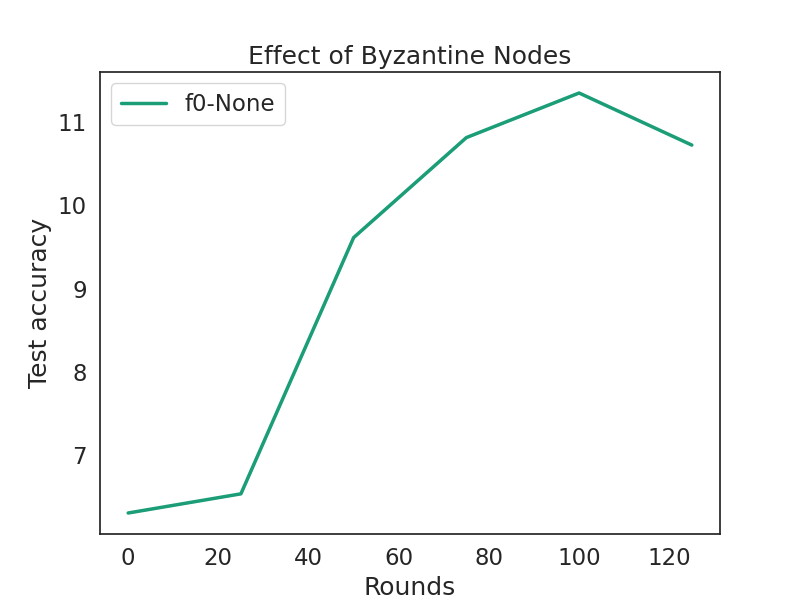
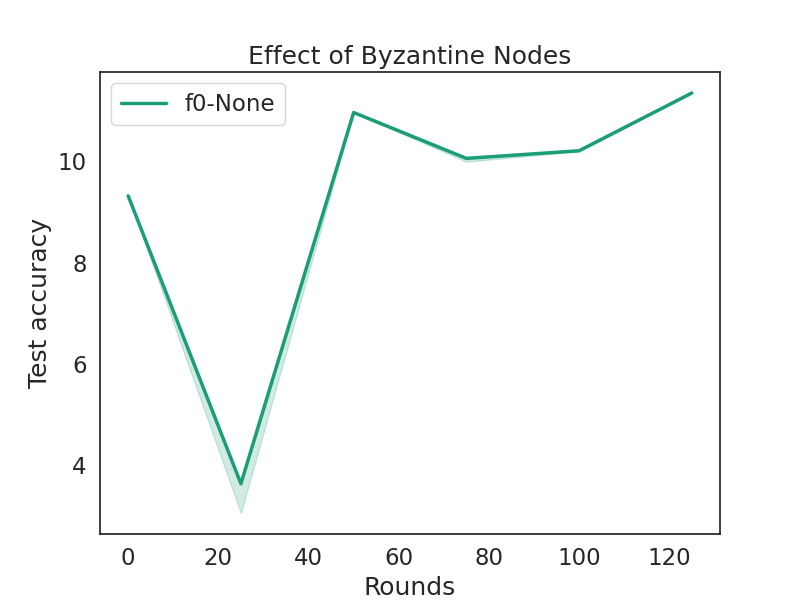
Add telerig implementation

diff --git a/asyncfl/telerig.py b/asyncfl/telerig.py
@@ -1,19 +1,33 @@
+import math
 from asyncfl.kardam import Kardam, dampening_factor
 from asyncfl.network import flatten
 from asyncfl.server import Server
 import numpy as np
 import torch
+import logging
+from sklearn.cluster import DBSCAN
+from sklearn.preprocessing import StandardScaler
 
-from asyncfl.util import compute_lipschitz_simple
+from asyncfl.util import compute_convergance, compute_lipschitz_simple
 
 
 class Telerig(Kardam):
 
     def __init__(self, n, f, dataset: str, model_name: str, learning_rate: float, damp_alpha: float = 0.2) -> None:
         super().__init__(n, f, dataset, model_name, learning_rate, damp_alpha)
+        self.conv = True
+        self.rep = True
+        self.eps = 2.5
+        self.accepted_lips = []
+        self.min_samples = 2
+        self.worker_history = {i:{"reputation":math.exp(0)/(1+math.exp(0))} for i in range(n)}
 
     
     def client_update(self, _client_id: int, gradients: np.ndarray, client_lipschitz, gradient_age: int):
+        """
+        @TODO: Add global score and use that in the lipschitz_check
+        """
+        
         self.lips[_client_id] = client_lipschitz.numpy()
         model_staleness = (self.get_age() + 1) - gradient_age
         grads = torch.from_numpy(gradients)
@@ -22,8 +36,24 @@ class Telerig(Kardam):
         prev_model = flatten(self.network).detach().clone().cpu()
         current_model = flatten(self.network).detach().clone().cpu() * self.learning_rate * grads
         self.k_pt = compute_lipschitz_simple(grads_dampened, self.prev_gradients, current_model, prev_model)
+        # @TODO: Add compute convergence
+        global_conv = compute_convergance(grads, self.prev_gradients, self.prev_prev_gradients)
         self.prune_grad_history(size=4)
-        if self.lipschitz_check(self.k_pt, self.hack):
+
+        # compute global score, condition for when the convergence is infinity. Can occur during optimal slowdown
+        if math.isinf(global_conv):
+            global_score = 0
+        else:
+            global_score = (self.k_pt*global_conv)
+        
+        if not self.conv:
+            global_score = self.k_pt
+
+
+
+        # @TODO: Do lipschitz reputation check
+        if self.lipschitz_reputation_check(global_score, self.accepted_lips, _client_id , self.get_age()):
+        # if self.lipschitz_check(self.k_pt, self.hack):
             # call the apply gradients from the extended ps after gradient has been checked
             if self.frequency_check(_client_id):
                 self.bft_telemetry["accepted"][_client_id]["values"].append([self.k_pt,self.get_age()])
@@ -42,3 +72,107 @@ class Telerig(Kardam):
             self.bft_telemetry["rejected"][_client_id]["values"].append([self.k_pt,self.get_age()])
             self.bft_telemetry["rejected"][_client_id]["total"] += 1
             return flatten(self.network)
+
+    def lipschitz_reputation_check(self, candidate_grad, accepted_grads, worker_id, epoch):
+        """Funcion to override the lipschitz check done in Kardam
+        param: candidate_grad: global score of candidate gradient
+        param: accepted_grads: array of previously accepted grads
+        param: workerd_id: integer id of worker
+        param: epoch: current timestep of network
+
+        Return: Boolean: True if gradient is valid, False if not
+        """
+        self.epoch = epoch
+        valid = False
+        # temporal dampening
+        # self.temporal = (epoch)/self.epochs
+        self.temporal = 0.5
+        # get current worker reputation
+        r = self.worker_history[worker_id]["reputation"]
+
+        # enable convergence
+        if self.conv:
+            worker_grads = [[(data["lips"]*data["conv"]),epoch] for _,data in self.lips.items()]
+        else:
+            worker_grads = [[(data["lips"]),epoch] for _,data in self.lips.items()]
+
+        # create array of the workers local scores and the global score
+        incoming_data = np.append(worker_grads,[[candidate_grad,epoch]],axis=0)
+        # logging.debug(f"incoming data {incoming_data} at epoch {epoch}")
+
+        # add the previously accepted gradients to incoming data
+        if not accepted_grads:
+            current_data = incoming_data
+        else:
+            current_data = np.append(accepted_grads,incoming_data,axis=0)
+
+        # making the labels binary, -1 for anomaly, 1 for a cluster
+        labels = np.array(self.detect_anomalies(current_data,len(worker_grads)))
+        labels[labels != -1] = 1
+
+        # blacklisting, should be optional with self.rep, with network age hyperameters
+        if r < 0.15 and self.temporal > 1/3 and self.rep:
+            logging.debug(f"Worker {worker_id} blacklisted")
+        else:
+            # performance check to determine acceptance
+            performance = (self.logit(r)) + labels[-1]
+            
+            logging.debug(f"{r}:{labels[-1]} : {performance} ")
+
+            if performance >= 0:
+                valid = True
+
+            self.update_rep(performance,worker_id)
+
+        for key,item in self.worker_history.items():
+            logging.debug(f"worker {key} reputation {item['reputation']}")
+
+        return valid
+    
+    def update_rep(self,performance,id):
+        """
+        Function called to update a workers reputation
+        param: performance: computed performance of worker
+        param: id: id of worker
+        """
+        sig_temp = self.sigmoid(self.temporal)
+        logging.debug(f"updating reputation with performance = {performance} and temporal dampening = {sig_temp}")
+        r = self.sigmoid(performance * sig_temp)
+        self.worker_history[id]["reputation"] = r
+
+    def update_lip(self, worker, lip, conv):
+        # update the Lipschitz and convergence values for a worker
+        if math.isnan(conv):
+            conv = 0.0
+        self.lips.update({worker:{"lips":lip,"conv":conv}})
+    
+    def sigmoid(self,x):
+        sig = 1 / (1 + math.exp(-x))
+        return sig
+
+    def logit(self,x):
+        logit = math.log(x/(1-x))
+        return logit
+
+    def detect_anomalies(self,data,active_workers):
+        """Function to feed in and scale data for the DBSCAN algorithm
+        param: data: current data to be fed into DBSCAN
+        param: active_worker: current list of workers that have submitted gradients
+        Return: array of labels to the data"""
+
+        # scaling the data
+        ss = StandardScaler()
+        data_ss = ss.fit_transform(data)     
+        if self.min_samples == 2:  
+            max_samples = ( 2/3*(active_workers+3))
+        elif self.min_samples == 1:
+            max_samples = ( 1/3*(active_workers+3))
+        else:
+            max_samples = ( 1/3*(active_workers))
+
+        logging.debug(f"min_samples={int(max_samples)}")
+        logging.debug(f"epsilon={self.eps}")
+        # fit data to DBSCAN
+        clusters = DBSCAN(eps=self.eps, min_samples=int(max_samples)).fit(data_ss)
+        # return labels
+        return clusters.labels_
